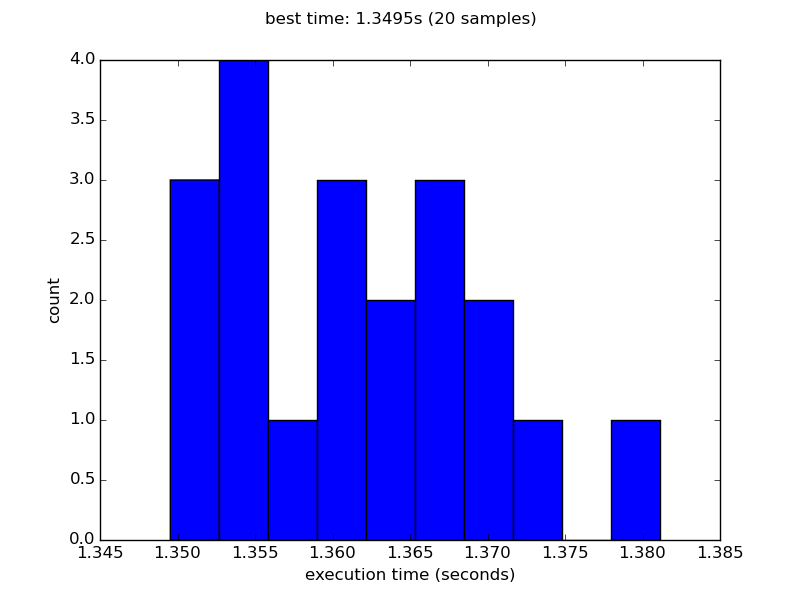
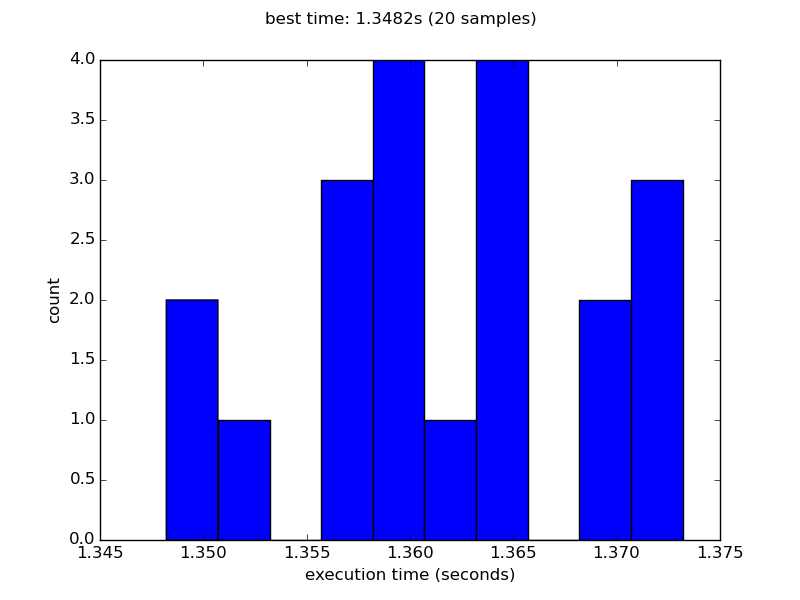
statistics up to -O2

diff --git a/ex01/README.md b/ex01/README.md
@@ -5,9 +5,12 @@
 ## Parte 1: _Compile o programa sem nenhuma opção de compilação extra._
 
 - [x] _Compile o programa sem nenhuma opção de compilação extra. Quanto tempo ele gasta?_
+
 [~1.35s](p1/hist_a.png)
 
 - [ ] _Veja se o valor muda utilizando, separadamente, cada uma das otimizações -O0, -O1, -O2 -O3 (letra O maiúscula seguida de um número). Qual delas deu o melhor tempo?_
+
+[A diferença devido a essas otimizações é minima](p1) porque o algoritmo é excessivamente simples e o otimizador não consegue melhorar o desempenho.
 
 - [ ] _Existem outras otimizações que você pode aplicar no processador atual, consulte o manual do gcc por otimizações da categoria -mtune e veja quais se aplicam ao seu processador. Para que elas servem? O tempo melhorou?_
 

diff --git a/ex01/p1/README.md b/ex01/p1/README.md
@@ -1,0 +1,8 @@
+## -O0
+[-O0](hist_b0.png)
+
+## -O1
+[-O1](hist_b1.png)
+
+## -O2
+[-O2](hist_b2.png)
